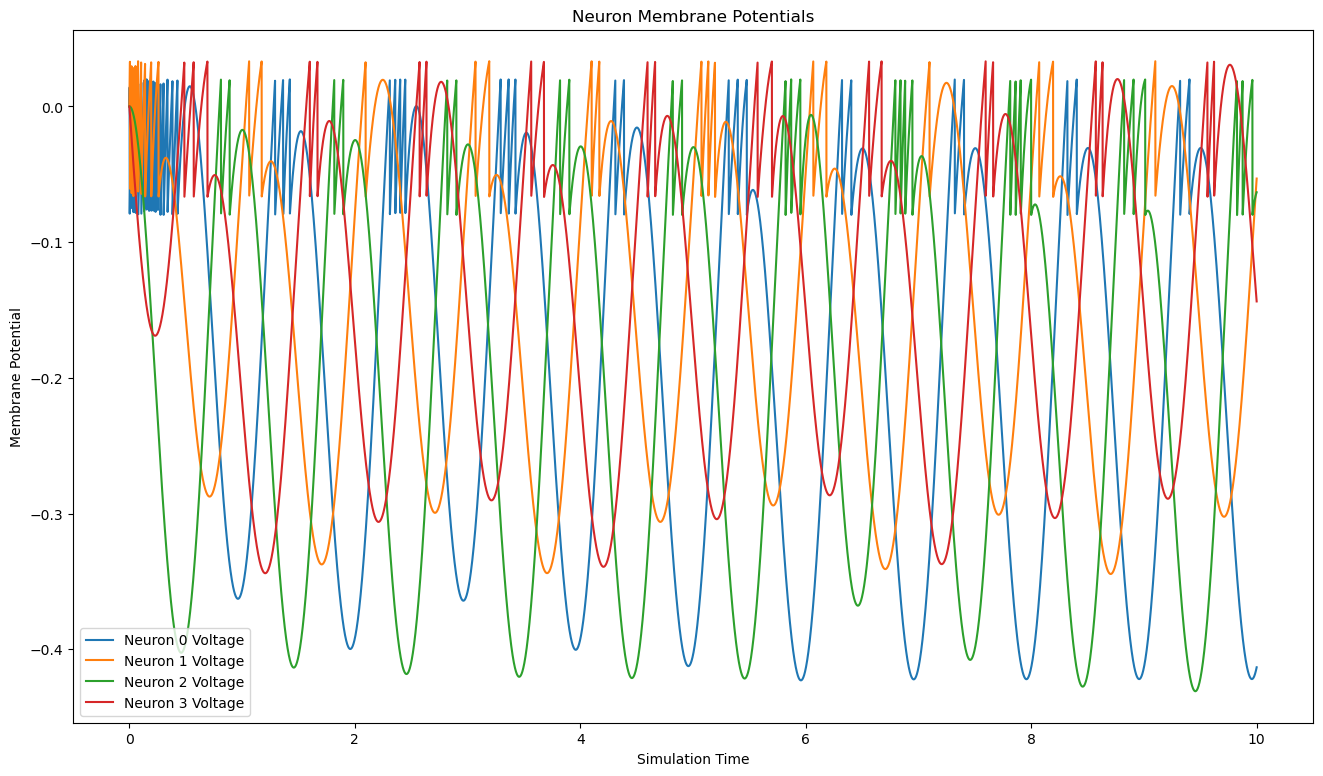
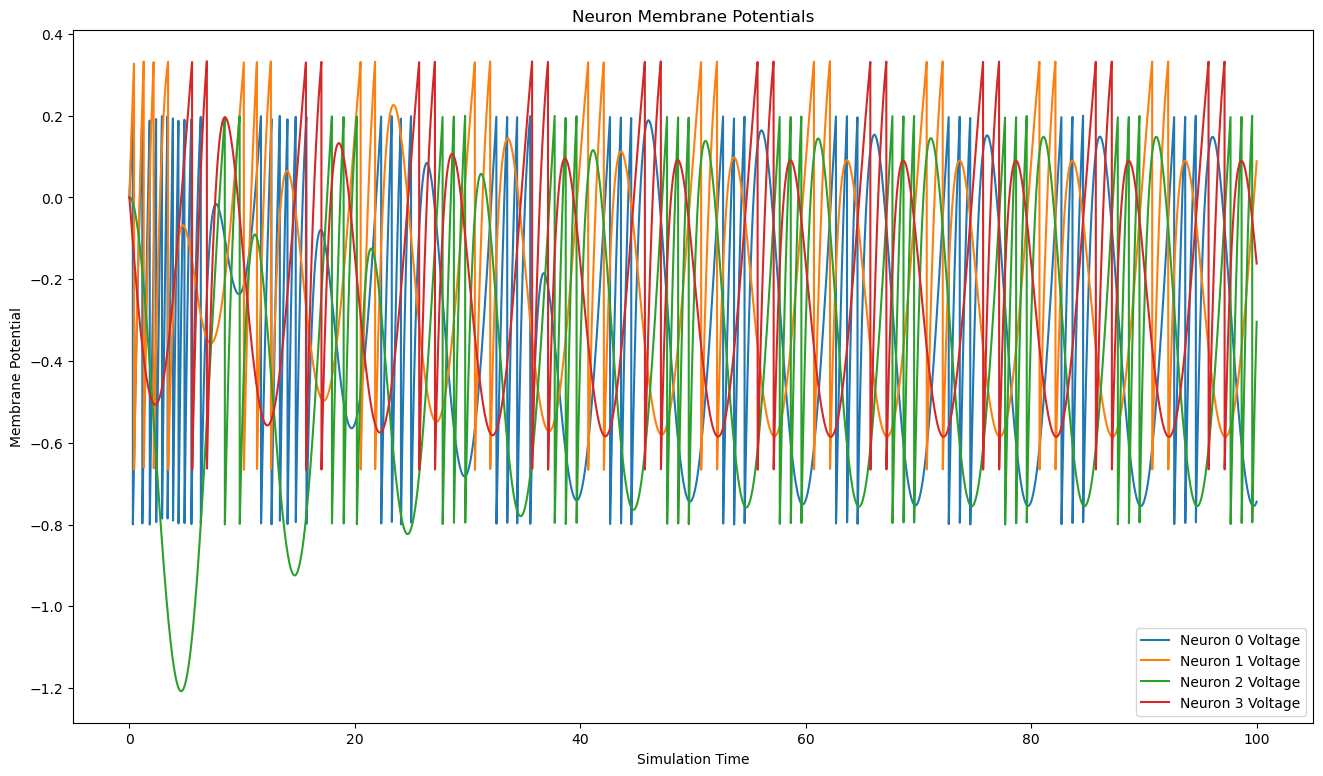
implemented dimensionless time simulation for self-coupled net

diff --git a/HSF/HSFNets.py b/HSF/HSFNets.py
@@ -273,7 +273,7 @@ class SelfCoupledNet(GapJunctionDeneveNet):
     def __init__(self, T, dt, N, D, lds, lam, t0 = 0, thresh = 'full', spike_trans_prob=1):
         super().__init__(T, dt, N, D, lds, lam, t0)
 
-        assert(spike_trans_prob < 1 and spike_trans_prob > 0), "Spike transmission probability = {0] is not between 0 and 1".format(spike_trans_prob)
+        assert(spike_trans_prob <= 1 and spike_trans_prob > 0), "Spike transmission probability = {0] is not between 0 and 1".format(spike_trans_prob)
         self.spike_trans_prob=spike_trans_prob
         
         if np.linalg.matrix_rank(lds.A) < np.min(lds.A.shape):
@@ -302,8 +302,8 @@ class SelfCoupledNet(GapJunctionDeneveNet):
         self.tau_syn = tau_syn
 
         # implement V as curly v in notes
-        self.Mv =  lamA  
-        self.Mr = (np.eye(N) / tau_syn + lamA) 
+        self.Mv =  tau_syn * lamA  
+        self.Mr = (np.eye(N) + lamA * tau_syn) 
   
         sD_inv = np.zeros(sD.shape)
         for i in range(2*dim):
@@ -313,17 +313,18 @@ class SelfCoupledNet(GapJunctionDeneveNet):
         uA = np.pad(uA, ((0,0),(0, N - 2 * dim)))
         Delta = uA @ sD_inv
         
+        
         self.set_initial_rs(Delta, lds.X0)
         self.D = Delta
         
-        self.vth =  (tau_syn / 2) * np.diag(Delta.T @ Delta)
+        self.vth =  (1 / 2) * np.diag(Delta.T @ Delta)
         
         
         lamA_inv = np.zeros(lamA.shape)
         for i in range(2 * dim):
             lamA_inv[i,i] = lamA[i,i]**-1
         
-        Beta = lamA @ sD @ lamA_inv @ uA.T @ self.lds.B
+        Beta = tau_syn * lamA @ sD @ lamA_inv @ uA.T @ self.lds.B
         self.Mc = Beta
         self.Beta = Beta
         
@@ -357,14 +358,14 @@ class SelfCoupledNet(GapJunctionDeneveNet):
                 for idx in range(V.shape[0]):
                     if diffs[idx] > 0:
                     # a spike occurred. roll back to when it should have happened 
-                        V[:,count+1] +=  tau_syn * Mo[:,idx]
+                        V[:,count+1] +=  Mo[:,idx]
                         
                         if spike_trans_prob == 1:
-                            r[idx,count+1] +=  tau_syn
+                            r[idx,count+1] +=  1
                         else:
                             sample = np.random.uniform(0, 1)
                             if spike_trans_prob >= sample:
-                                r[idx,count+1] += tau_syn
+                                r[idx,count+1] += 1
                             
                             
                         O[idx] = np.append(O[idx], t[-1])
@@ -389,10 +390,11 @@ class SelfCoupledNet(GapJunctionDeneveNet):
         Mr = self.Mr
         Mc = self.Mc
         tau_syn = self.tau_syn
+        dt  = dt/tau_syn
         spike_trans_prob  = self.spike_trans_prob
         
         top = np.hstack((Mv, Mr))
-        bot = np.hstack((np.zeros((self.N, self.N)), - (1/tau_syn) *  np.eye(self.N)))
+        bot = np.hstack((np.zeros((self.N, self.N)), -  np.eye(self.N)))
         A_exp = np.vstack((top, bot)) #matrix exponential for linear part of eq
         A_exp = expm(A_exp*dt)
         

diff --git a/HSF/network_sim_comparisons.py b/HSF/network_sim_comparisons.py
@@ -23,7 +23,6 @@ def run_sim(lam, N):
     p = .9
 
     D = gen_decoder(A.shape[0], N, mode=mode)
-    #D = gen_decoder(A.shape[0], N)
     B = np.eye(2)
     u0 = D[:,0]
     x0 = np.asarray([.5, .5])
@@ -33,27 +32,27 @@ def run_sim(lam, N):
     lam_v = 1
 
 
-    sin_func = lambda t :   np.asarray([np.sin(2*np.pi*t), np.cos(2*np.pi*t)])
+    sin_func = lambda t :   3 * np.asarray([np.sin(2 * np.pi*t), np.cos(2 * np.pi*t)]) 
 
     lds = sat.LinearDynamicalSystem(x0, A, B, u = sin_func , T = T, dt = dt)
 
-
-
-
     #gj_net = GapJunctionDeneveNet(T=T, dt=dt, N=N, D=D, lds=lds, lam=lam, t0=0)
     #classic_net = ClassicDeneveNet(T=T, dt=dt, N=N, D=D, lds=lds, lam=lam, lam_v=lam_v, t0=0)
-    sc_net = SelfCoupledNet(T=T, dt=dt, N=N, D=D, lds=lds, lam=lam, t0=0, spike_trans_prob=.3)
+    sc_net = SelfCoupledNet(T=T, dt=dt, N=N, D=D, lds=lds, lam=lam, t0=0, spike_trans_prob=1)
 
 
     #gj_data = gj_net.run_sim()
     #classic_data = classic_net.run_sim()
     sc_data = sc_net.run_sim()
 
-    return sc_data
+    return sc_data 
     #return gj_data, classic_data, sc_data
 
 #gj_data, classic_data, sc_data = run_sim(10, 4)
-sc_data = run_sim(10, 4)
+lam = 10 
+N = 4
+
+sc_data = run_sim(lam, N)
 
 
 plt.close('all')
@@ -94,7 +93,7 @@ for i in range(sc_data['x_hat'].shape[0]):
     #plt.plot(gj_data['t'][0:-1:plot_step], gj_data['x_hat'][i,0:-1:plot_step],c='g',label='Gap Junction Network')
     #plt.plot(classic_data['t'][0:-1:plot_step], classic_data['x_hat'][i,0:-1:plot_step],c='c',label='Classic Deneve Network')
     plt.plot(sc_data['t'][0:-1:plot_step], sc_data['x_hat'][i,0:-1:plot_step],c='r',label='Self Coupled Network')
-    plt.plot(sc_data['t'][0:-1:plot_step], sc_data['x_true'][i,0:-1:plot_step],c='k',label='True Dynamical System')
+    plt.plot(sc_data['t_true'][0:-1:plot_step] * lam, sc_data['x_true'][i,0:-1:plot_step],c='k',label='True Dynamical System')
     plt.title('Network Decode Dimension %i '%i)
     plt.legend()
     #plt.ylim([-1.1, 1.1])
